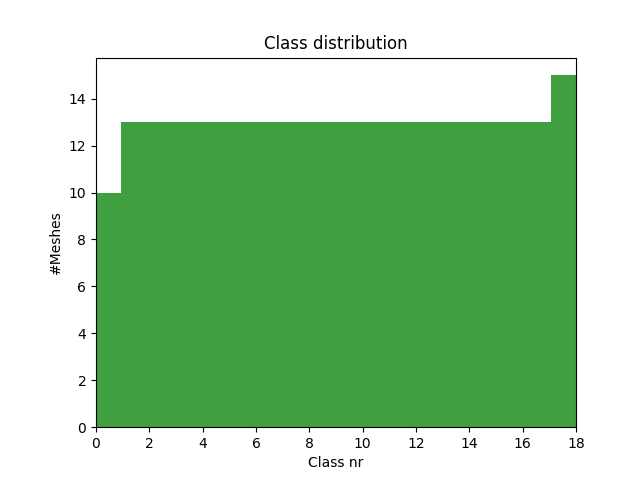
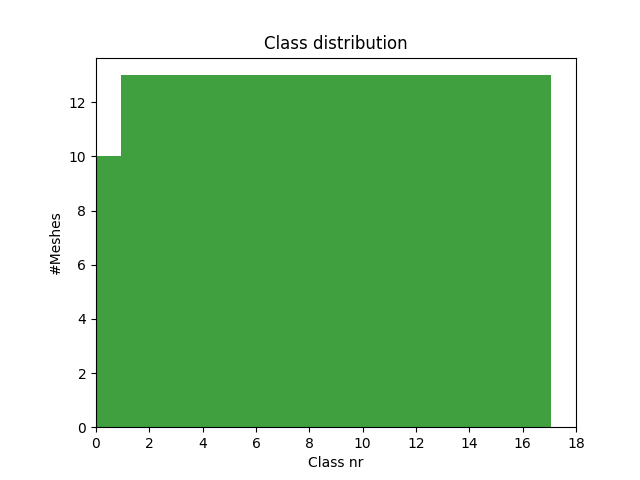
step2 done

diff --git a/analyze.py b/analyze.py
@@ -112,7 +112,11 @@ def save_histogram(data, info, path):
     p95 = np.percentile(data, 95)
     data = data[data >= p5]
     data = data[data <= p95]
-  plt.hist(data, bins=info["blocksize"], facecolor='g', alpha=0.75)
+  if info["xlim"] > 0:
+    bins = np.arange(0, info["xlim"], info["xlim"] / info["blocksize"])
+  else:
+    bins = info["blocksize"]
+  plt.hist(data, bins=bins, facecolor='g', alpha=0.75)
   plt.xlabel(info["xlabel"])
   plt.ylabel(info["ylabel"])
   plt.title(info["title"])
@@ -135,11 +139,11 @@ def save_all_histograms(df, path):
     {"column": "nrvertices", "title": "Vertice distribution", "blocksize": 100, "xlim": 0, "ylabel": "#Meshes",
      "xlabel": "Number of vertices", "skip_outliers": True},
     {"column": "volume", "title": "Bounding box volume", "blocksize": 100, "xlim": 0, "ylabel": "#Meshes",
-     "xlabel": "Bounding box volume", "skip_outliers": True},
+     "xlabel": "Bounding box volume", "skip_outliers": False},
     {"column": "barycentre_distance", "title": "Barycentre origin distance", "blocksize": 20, "xlim": 1,
-     "ylabel": "#Meshes", "xlabel": "Distance barycentre to origin", "skip_outliers": True},
-    {"column": "axis-aligned_bounding_box_distance", "title": "Axis-aligned bounding box distance", "blocksize": 100, "xlim": 0,
-     "ylabel": "#Meshes", "xlabel": "Diagonal distance of axis aligned bounding box", "skip_outliers": True}
+     "ylabel": "#Meshes", "xlabel": "Distance barycentre to origin", "skip_outliers": False},
+    {"column": "axis-aligned_bounding_box_distance", "title": "Axis-aligned bounding box distance", "blocksize": 50, "xlim": 3,
+     "ylabel": "#Meshes", "xlabel": "Diagonal distance of axis aligned bounding box", "skip_outliers": False}
   ]
   for info in plotInfos:
     save_histogram(df.loc[:, info['column']].values, info, path)

diff --git a/main.py b/main.py
@@ -40,14 +40,13 @@ def step_1():
   render([mesh])
 
 
-step_1()
 start_time = time.monotonic()
-print("Analyze 1")
-analyze.filter_database(utils.originalDB, utils.excelPath)
-print("Preprocessing")
-preprocess.process_all()
-print("Analyze 2")
-analyze.filter_database(utils.refinedDB, utils.refinedexcelPath)
+# print("Analyze 1")
+# analyze.filter_database(utils.originalDB, utils.excelPath)
+# print("Preprocessing")
+# preprocess.process_all()
+# print("Analyze 2")
+# analyze.filter_database(utils.refinedDB, utils.refinedexcelPath)
 print("Read Excel")
 originalDF = utils.read_excel(original=True)
 refinedDF = utils.read_excel(original=False)
